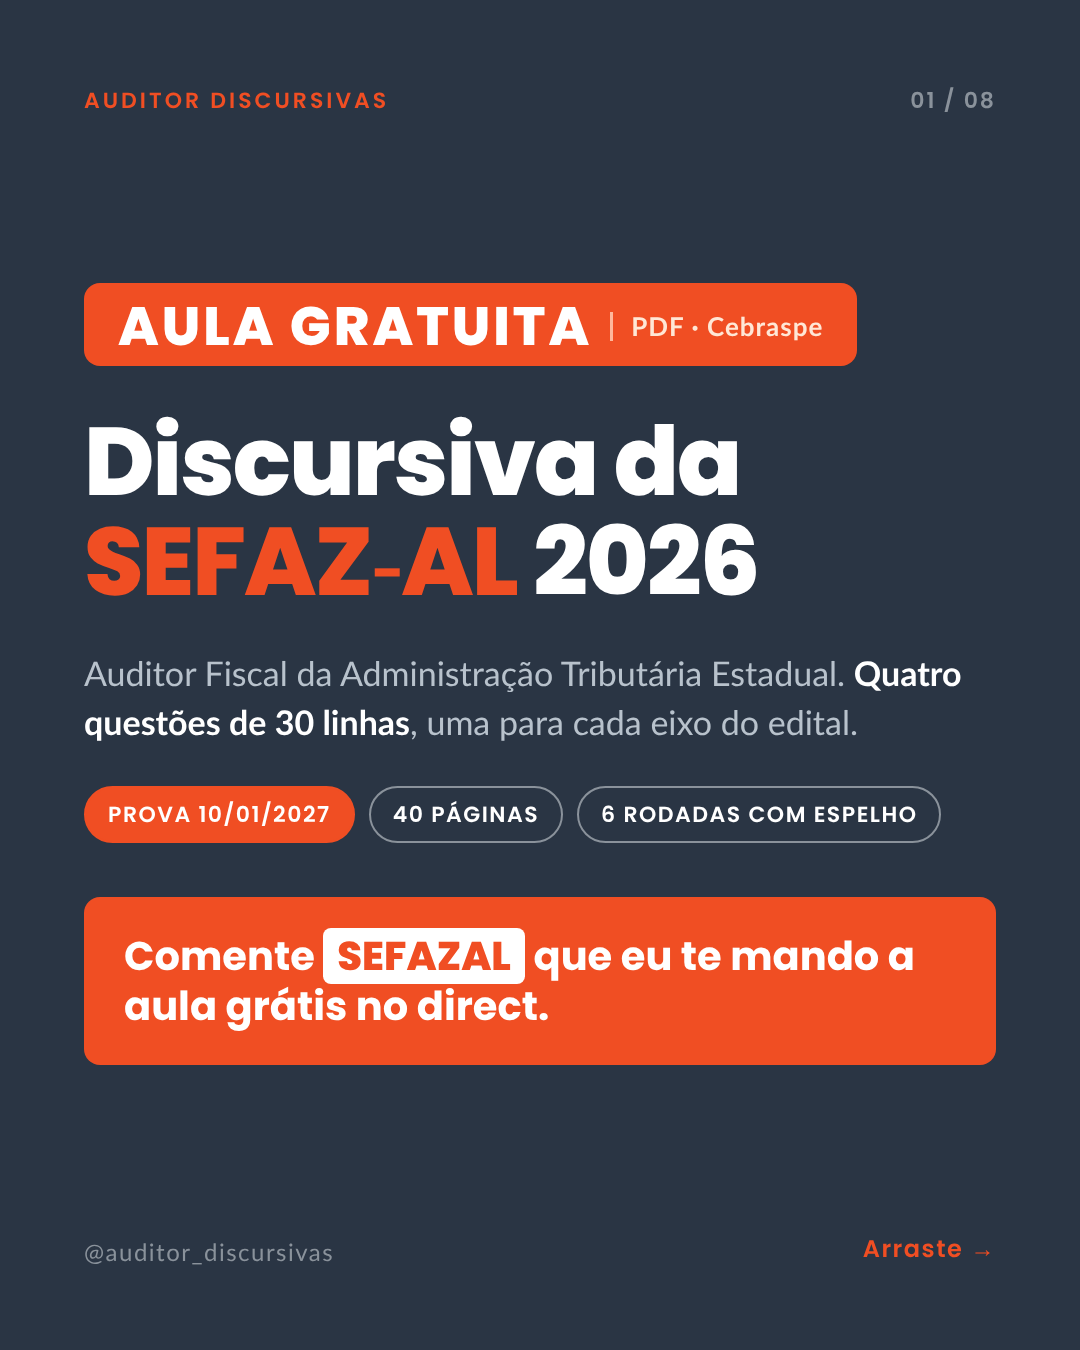
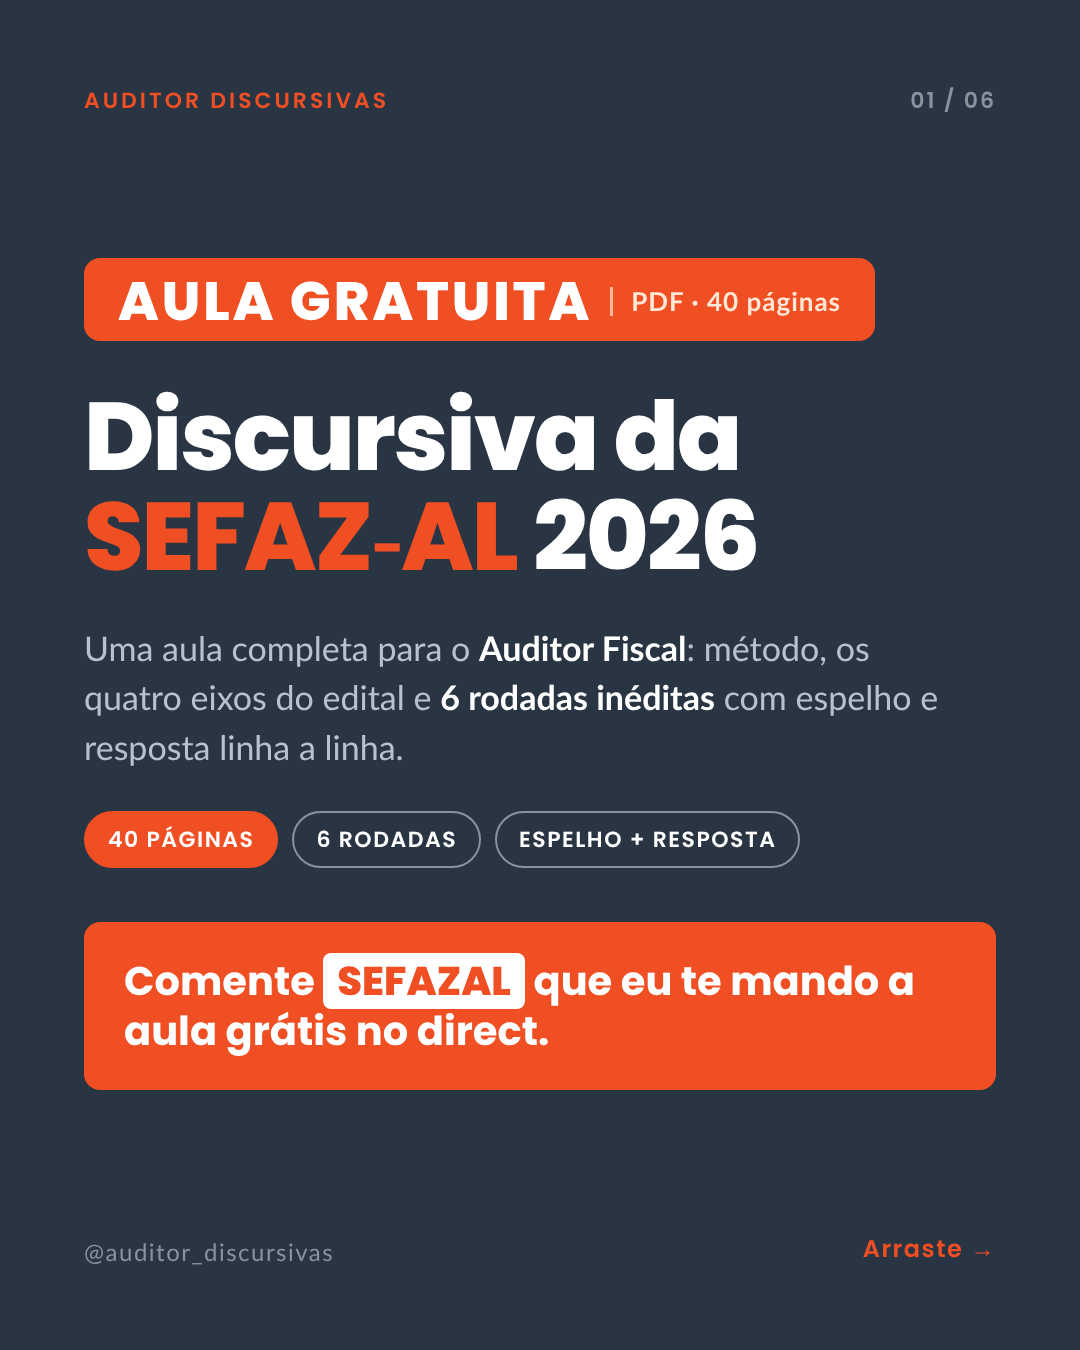
SEFAZ-AL: carrossel de 6 slides focado na aula
Claude-Session: https://claude.ai/code/session_01NnKHPQEUmMZq6kcsnTUKuD

Changed region(s): [[0.0611, 0.1867, 0.9472, 0.8089]]

diff --git a/fontes/campanha-sefazal/carrossel_sefazal.html b/fontes/campanha-sefazal/carrossel_sefazal.html
@@ -89,57 +89,59 @@ body{background:#E8EBEE;font-family:'Lato',sans-serif;padding:40px;display:flex;
 </head>
 <body>
 <div class="slide dark pad" data-n="01">
-  <div style="display:flex;justify-content:space-between"><div class="marca">Auditor Discursivas</div><div class="contador">01 / 08</div></div>
+  <div style="display:flex;justify-content:space-between"><div class="marca">Auditor Discursivas</div><div class="contador">01 / 06</div></div>
   <div>
-    <div class="tag" style="margin-bottom:46px">Aula gratuita<small>PDF · Cebraspe</small></div>
+    <div class="tag" style="margin-bottom:46px">Aula gratuita<small>PDF · 40 páginas</small></div>
     <div class="h1">Discursiva da <em style="white-space:nowrap">SEFAZ&#8209;AL</em> 2026</div>
-    <div class="sub" style="margin-top:36px">Auditor Fiscal da Administração Tributária Estadual. <b>Quatro questões de 30 linhas</b>, uma para cada eixo do edital.</div>
-    <div class="selo" style="margin-top:40px"><span class="on">Prova 10/01/2027</span><span class="">40 páginas</span><span class="">6 rodadas com espelho</span></div>
+    <div class="sub" style="margin-top:36px">Uma aula completa para o <b>Auditor Fiscal</b>: método, os quatro eixos do edital e <b>6 rodadas inéditas</b> com espelho e resposta linha a linha.</div>
+    <div class="selo" style="margin-top:40px"><span class="on">40 páginas</span><span class="">6 rodadas</span><span class="">Espelho + resposta</span></div>
     <div class="cta" style="margin-top:54px"><div class="a">Comente <b>SEFAZAL</b> que eu te mando a aula grátis no direct.</div></div>
   </div>
   <div class="rodape"><div>@auditor_discursivas</div><div class="seta">Arraste →</div></div>
 </div>
 <div class="slide" data-n="02">
-  <div class="faixa-navy"><span>A prova de domingo à tarde</span><span class="n">02 / 08</span></div>
-  <div class="faixa-laranja">Quatro textos, 40 pontos, uma linha de corte</div>
+  <div class="faixa-navy"><span>Na aula gratuita · 40 páginas</span><span class="n">02 / 06</span></div>
+  <div class="faixa-laranja">O que você recebe no PDF</div>
   <div class="corpo">
-<div class="nums">
-  <div class="num"><div class="v">4 × 30</div><div class="l">Quatro questões de até 30 linhas · <b>10 pontos</b> cada</div></div>
-  <div class="num"><div class="v">4h30</div><div class="l">Para as <b>120 linhas</b>, à mão</div></div>
-  <div class="num dest"><div class="v">20 <small>/ 40</small></div><div class="l">Abaixo disso, <b>eliminado</b></div></div>
-  <div class="num"><div class="v">~500</div><div class="l">Provas corrigidas para <b>40 vagas</b> imediatas</div></div>
+<div class="lista">
+  <div><span class="ok">✓</span><span class="q"><b>Raio-X do edital</b> e de como o Cebraspe corrige<small>Fórmula da nota, correção dupla, o que zera ou anula</small></span></div>
+  <div><span class="ok">✓</span><span class="q">O que o edital pede em <b>cada um dos quatro eixos</b><small>Os tópicos do edital que mais rendem uma questão de 30 linhas</small></span></div>
+  <div><span class="ok">✓</span><span class="q">O que a banca <b>já cobrou na área fiscal</b><small>SEFAZ-AL 2021, SEFAZ-SE 2021, SEFAZ-AC 2024</small></span></div>
+  <div><span class="ok">✓</span><span class="q"><b>O que está quente</b> para a SEFAZ-AL<small>Split payment, transição do ICMS, fiscalização por dados</small></span></div>
+  <div><span class="ok">✓</span><span class="q"><b>Roteiro de planejamento</b> em cinco passos<small>E a calibragem das 30 linhas por item</small></span></div>
+  <div><span class="ok">✓</span><span class="q">Gestão das <b>4h30</b> e checklist do dia da prova</span></div>
 </div>
-<div class="txt">Cada questão vale o mesmo que <b>dez itens líquidos</b> da objetiva. Três pontos numa resposta bem estruturada costumam vir mais fácil que três itens a mais.</div>
-<div class="dica"><div class="dica-rot">Fonte</div><div class="dica-txt">Edital n.º 1 – SEFAZ/AL, de 24/8/2026 (subitens 7.3, 8.11.6, 9.1, 9.7.6 e 11.1).</div></div>
 </div>
   <div class="rod-claro"><div>@auditor_discursivas</div><div class="seta">→</div></div>
 </div>
 <div class="slide" data-n="03">
-  <div class="faixa-navy"><span>Uma particularidade rara</span><span class="n">03 / 08</span></div>
-  <div class="faixa-laranja">O edital já diz o eixo de cada questão</div>
+  <div class="faixa-navy"><span>O coração da aula</span><span class="n">03 / 06</span></div>
+  <div class="faixa-laranja">Seis rodadas inéditas, um caso por eixo</div>
   <div class="corpo">
-<div class="rod"><span class="k">1</span><span class="t"><small>Questão 1</small><b>Ciência de dados</b> · CRISP-DM, aprendizado de máquina, métricas, BI</span></div>
-<div class="rod"><span class="k">2</span><span class="t"><small>Questão 2</small><b>Auditoria fiscal</b> · SPED, NF-e, EFD, cruzamentos, créditos indevidos</span></div>
-<div class="rod"><span class="k">3</span><span class="t"><small>Questão 3</small><b>Finanças públicas</b> · orçamento, LRF, renúncia de receita, dívida</span></div>
-<div class="rod"><span class="k">4</span><span class="t"><small>Questão 4</small><b>Reforma tributária</b> · IBS, CBS, Comitê Gestor, split payment, transição</span></div>
-<div class="dica"><div class="dica-rot">O recado</div><div class="dica-txt">Em vez de dezenas de disciplinas, você treina <b>quatro conteúdos</b>. Quem treinar com método chega com vantagem enorme.</div></div>
+<div class="rod"><span class="k">1</span><span class="t"><small>Ciência de dados</small><b>Seleção de contribuintes com aprendizado de máquina</b></span></div>
+<div class="rod"><span class="k">2</span><span class="t"><small>Ciência de dados</small><b>BI e modelagem dimensional da arrecadação</b></span></div>
+<div class="rod"><span class="k">3</span><span class="t"><small>Auditoria fiscal</small><b>Cruzamento NF-e × EFD ICMS/IPI</b></span></div>
+<div class="rod"><span class="k">4</span><span class="t"><small>Finanças públicas</small><b>Renúncia de receita e incentivo de ICMS</b></span></div>
+<div class="rod"><span class="k">5</span><span class="t"><small>Reforma tributária</small><b>Split payment, crédito e apuração assistida</b></span></div>
+<div class="rod"><span class="k">6</span><span class="t"><small>Reforma tributária</small><b>Princípio do destino, transição e Comitê Gestor</b></span></div>
+<div class="txt" style="font-size:28px;color:var(--cinza);margin-top:14px">Questões no padrão Cebraspe: 30 linhas, 10 pontos, itens com valor.</div>
 </div>
   <div class="rod-claro"><div>@auditor_discursivas</div><div class="seta">→</div></div>
 </div>
 <div class="slide" data-n="04">
-  <div class="faixa-navy"><span>Atenção ao calendário</span><span class="n">04 / 08</span></div>
-  <div class="faixa-laranja">Você vai fazer a discursiva sem saber se passou</div>
+  <div class="faixa-navy"><span>Como cada rodada funciona</span><span class="n">04 / 06</span></div>
+  <div class="faixa-laranja">Você escreve. Depois, a aula corrige.</div>
   <div class="corpo">
-<div class="rod"><span class="k p">1</span><span class="t"><small>20/12/2026</small><b>Prova objetiva</b></span></div>
-<div class="rod"><span class="k">2</span><span class="t"><small>10/01/2027 · tarde</small><b>Prova discursiva</b> · três semanas depois</span></div>
-<div class="rod"><span class="k p">3</span><span class="t"><small>05/02/2027</small><b>Resultado final da objetiva</b></span></div>
-<div class="dica"><div class="dica-rot">Na prática</div><div class="dica-txt">Não decida o seu esforço pelo gabarito preliminar. <b>Treine discursiva desde já</b>, em paralelo com a objetiva.</div></div>
-<div class="dica" style="margin-top:20px;border-top:none;padding-top:0"><div class="dica-rot">Fonte</div><div class="dica-txt">Edital n.º 1 – SEFAZ/AL e retificações.</div></div>
+<div class="bloco"><div class="lado"></div><div class="c"><div class="h">1 · Questão inédita</div><div class="d">Leia o enunciado e escreva em <b>60 minutos</b>, cronometrados</div></div></div>
+<div class="bloco"><div class="lado"></div><div class="c"><div class="h">2 · Orientação de solução</div><div class="d">O esqueleto: linhas por item, tópico frasal e dado do caso</div></div></div>
+<div class="bloco"><div class="lado"></div><div class="c"><div class="h">3 · Padrão de resposta e espelho</div><div class="d">O que o corretor procura, com <b>conceitos graduados</b> por quesito</div></div></div>
+<div class="bloco"><div class="lado"></div><div class="c"><div class="h">4 · Resposta definitiva</div><div class="d">O texto pronto, <b>linha a linha</b>, dentro das 30 linhas</div></div></div>
+<div class="bloco"><div class="lado"></div><div class="c"><div class="h">5 · Armadilhas e dicas</div><div class="d">Os erros mais comuns e o que o enunciado esconde</div></div></div>
 </div>
   <div class="rod-claro"><div>@auditor_discursivas</div><div class="seta">→</div></div>
 </div>
 <div class="slide" data-n="05">
-  <div class="faixa-navy"><span>Prévia da aula gratuita</span><span class="n">05 / 08</span></div>
+  <div class="faixa-navy"><span>Prévia da aula gratuita</span><span class="n">05 / 06</span></div>
   <div class="faixa-laranja">O parágrafo que pontua, em quatro partes</div>
   <div class="corpo">
 <div class="bloco"><div class="lado"></div><div class="c"><div class="h">1 · Tópico frasal</div><div class="d">“O crédito relativo ao material de uso e consumo é indevido.”</div></div></div>
@@ -150,38 +152,11 @@ body{background:#E8EBEE;font-family:'Lato',sans-serif;padding:40px;display:flex;
 </div>
   <div class="rod-claro"><div>@auditor_discursivas</div><div class="seta">→</div></div>
 </div>
-<div class="slide" data-n="06">
-  <div class="faixa-navy"><span>As seis rodadas</span><span class="n">06 / 08</span></div>
-  <div class="faixa-laranja">Temas inéditos, um caso por eixo</div>
-  <div class="corpo">
-<div class="rod"><span class="k">1</span><span class="t"><small>Ciência de dados</small><b>Seleção de contribuintes com aprendizado de máquina</b></span></div>
-<div class="rod"><span class="k">2</span><span class="t"><small>Ciência de dados</small><b>BI e modelagem dimensional da arrecadação</b></span></div>
-<div class="rod"><span class="k">3</span><span class="t"><small>Auditoria fiscal</small><b>Cruzamento NF-e × EFD ICMS/IPI</b></span></div>
-<div class="rod"><span class="k">4</span><span class="t"><small>Finanças públicas</small><b>Renúncia de receita e incentivo de ICMS</b></span></div>
-<div class="rod"><span class="k">5</span><span class="t"><small>Reforma tributária</small><b>Split payment, crédito e apuração assistida</b></span></div>
-<div class="rod"><span class="k">6</span><span class="t"><small>Reforma tributária</small><b>Princípio do destino, transição e Comitê Gestor</b></span></div>
-</div>
-  <div class="rod-claro"><div>@auditor_discursivas</div><div class="seta">→</div></div>
-</div>
-<div class="slide" data-n="07">
-  <div class="faixa-navy"><span>Na aula gratuita · 40 páginas</span><span class="n">07 / 08</span></div>
-  <div class="faixa-laranja">Do edital ao checklist do dia</div>
-  <div class="corpo">
-<div class="lista">
-  <div><span class="ok">✓</span><span class="q"><b>Raio-X do edital</b> e de como o Cebraspe corrige<small>Fórmula, correção dupla, o que zera ou anula</small></span></div>
-  <div><span class="ok">✓</span><span class="q">O que a banca <b>já cobrou na área fiscal</b><small>SEFAZ-AL 2021, SEFAZ-SE 2021, SEFAZ-AC 2024</small></span></div>
-  <div><span class="ok">✓</span><span class="q"><b>O que está quente</b> para a SEFAZ-AL<small>Split payment, transição do ICMS, Trânsito Inteligente</small></span></div>
-  <div><span class="ok">✓</span><span class="q"><b>6 rodadas</b> com espelho e resposta completa<small>Orientação de solução e proposta definitiva</small></span></div>
-  <div><span class="ok">✓</span><span class="q">Gestão das <b>quatro horas e meia</b> e checklist do dia</span></div>
-</div>
-</div>
-  <div class="rod-claro"><div>@auditor_discursivas</div><div class="seta">→</div></div>
-</div>
-<div class="slide dark pad" data-n="08">
-  <div style="display:flex;justify-content:space-between"><div class="marca">Auditor Discursivas</div><div class="contador">08 / 08</div></div>
+<div class="slide dark pad" data-n="06">
+  <div style="display:flex;justify-content:space-between"><div class="marca">Auditor Discursivas</div><div class="contador">06 / 06</div></div>
   <div>
     <div class="tag" style="margin-bottom:44px">Aula gratuita<small>em PDF, no seu direct</small></div>
-    <div class="h1" style="font-size:76px">Quatro eixos.<br>Um parágrafo por item.<br><em>Nota acima de 20.</em></div>
+    <div class="h1" style="font-size:76px">Seis rodadas.<br>Espelho e resposta.<br><em>Grátis no seu direct.</em></div>
     <div class="cta" style="margin-top:54px">
       <div class="a">Comente <b>SEFAZAL</b> aqui embaixo e a aula gratuita chega no seu direct.</div>
       <div class="b">Depois da prova, se a nota não vier como você esperava, me manda <b style="color:#fff">RECURSO</b> no direct. A análise de viabilidade é gratuita.</div>

diff --git a/fontes/campanha-sefazal/gerar.py b/fontes/campanha-sefazal/gerar.py
@@ -10,69 +10,52 @@ exec(src)  # define CSS, head, capa, conteudo, fecho, story
 
 OUT = pathlib.Path(sys.argv[1] if len(sys.argv) > 1 else 'out'); OUT.mkdir(parents=True, exist_ok=True)
 KW = 'SEFAZAL'
-T = 8
+T = 6
 
 c = head('Campanha SEFAZ-AL 2026 — carrossel') + capa(1, T,
-    'PDF · Cebraspe',
+    'PDF · 40 páginas',
     'Discursiva da <em style="white-space:nowrap">SEFAZ&#8209;AL</em> 2026',
-    'Auditor Fiscal da Administração Tributária Estadual. <b>Quatro questões de 30 linhas</b>, uma para cada eixo do edital.',
-    ['Prova 10/01/2027', '40 páginas', '6 rodadas com espelho'], KW)
+    'Uma aula completa para o <b>Auditor Fiscal</b>: método, os quatro eixos do edital e <b>6 rodadas inéditas</b> com espelho e resposta linha a linha.',
+    ['40 páginas', '6 rodadas', 'Espelho + resposta'], KW)
 
-c += conteudo(2, T, 'A prova de domingo à tarde', 'Quatro textos, 40 pontos, uma linha de corte', '''
-<div class="nums">
-  <div class="num"><div class="v">4 × 30</div><div class="l">Quatro questões de até 30 linhas · <b>10 pontos</b> cada</div></div>
-  <div class="num"><div class="v">4h30</div><div class="l">Para as <b>120 linhas</b>, à mão</div></div>
-  <div class="num dest"><div class="v">20 <small>/ 40</small></div><div class="l">Abaixo disso, <b>eliminado</b></div></div>
-  <div class="num"><div class="v">~500</div><div class="l">Provas corrigidas para <b>40 vagas</b> imediatas</div></div>
+c += conteudo(2, T, 'Na aula gratuita · 40 páginas', 'O que você recebe no PDF', """
+<div class="lista">
+  <div><span class="ok">✓</span><span class="q"><b>Raio-X do edital</b> e de como o Cebraspe corrige<small>Fórmula da nota, correção dupla, o que zera ou anula</small></span></div>
+  <div><span class="ok">✓</span><span class="q">O que o edital pede em <b>cada um dos quatro eixos</b><small>Os tópicos do edital que mais rendem uma questão de 30 linhas</small></span></div>
+  <div><span class="ok">✓</span><span class="q">O que a banca <b>já cobrou na área fiscal</b><small>SEFAZ-AL 2021, SEFAZ-SE 2021, SEFAZ-AC 2024</small></span></div>
+  <div><span class="ok">✓</span><span class="q"><b>O que está quente</b> para a SEFAZ-AL<small>Split payment, transição do ICMS, fiscalização por dados</small></span></div>
+  <div><span class="ok">✓</span><span class="q"><b>Roteiro de planejamento</b> em cinco passos<small>E a calibragem das 30 linhas por item</small></span></div>
+  <div><span class="ok">✓</span><span class="q">Gestão das <b>4h30</b> e checklist do dia da prova</span></div>
 </div>
-<div class="txt">Cada questão vale o mesmo que <b>dez itens líquidos</b> da objetiva. Três pontos numa resposta bem estruturada costumam vir mais fácil que três itens a mais.</div>
-<div class="dica"><div class="dica-rot">Fonte</div><div class="dica-txt">Edital n.º 1 – SEFAZ/AL, de 24/8/2026 (subitens 7.3, 8.11.6, 9.1, 9.7.6 e 11.1).</div></div>
-''')
+""")
 
-c += conteudo(3, T, 'Uma particularidade rara', 'O edital já diz o eixo de cada questão', '''
-<div class="rod"><span class="k">1</span><span class="t"><small>Questão 1</small><b>Ciência de dados</b> · CRISP-DM, aprendizado de máquina, métricas, BI</span></div>
-<div class="rod"><span class="k">2</span><span class="t"><small>Questão 2</small><b>Auditoria fiscal</b> · SPED, NF-e, EFD, cruzamentos, créditos indevidos</span></div>
-<div class="rod"><span class="k">3</span><span class="t"><small>Questão 3</small><b>Finanças públicas</b> · orçamento, LRF, renúncia de receita, dívida</span></div>
-<div class="rod"><span class="k">4</span><span class="t"><small>Questão 4</small><b>Reforma tributária</b> · IBS, CBS, Comitê Gestor, split payment, transição</span></div>
-<div class="dica"><div class="dica-rot">O recado</div><div class="dica-txt">Em vez de dezenas de disciplinas, você treina <b>quatro conteúdos</b>. Quem treinar com método chega com vantagem enorme.</div></div>
-''')
-
-c += conteudo(4, T, 'Atenção ao calendário', 'Você vai fazer a discursiva sem saber se passou', '''
-<div class="rod"><span class="k p">1</span><span class="t"><small>20/12/2026</small><b>Prova objetiva</b></span></div>
-<div class="rod"><span class="k">2</span><span class="t"><small>10/01/2027 · tarde</small><b>Prova discursiva</b> · três semanas depois</span></div>
-<div class="rod"><span class="k p">3</span><span class="t"><small>05/02/2027</small><b>Resultado final da objetiva</b></span></div>
-<div class="dica"><div class="dica-rot">Na prática</div><div class="dica-txt">Não decida o seu esforço pelo gabarito preliminar. <b>Treine discursiva desde já</b>, em paralelo com a objetiva.</div></div>
-<div class="dica" style="margin-top:20px;border-top:none;padding-top:0"><div class="dica-rot">Fonte</div><div class="dica-txt">Edital n.º 1 – SEFAZ/AL e retificações.</div></div>
-''')
-
-c += conteudo(5, T, 'Prévia da aula gratuita', 'O parágrafo que pontua, em quatro partes', '''
-<div class="bloco"><div class="lado"></div><div class="c"><div class="h">1 · Tópico frasal</div><div class="d">“O crédito relativo ao material de uso e consumo é indevido.”</div></div></div>
-<div class="bloco"><div class="lado"></div><div class="c"><div class="h">2 · Fundamento</div><div class="d">“...pois o art. 33, I, da LC n.º 87/1996 só admite esse crédito a partir de 2033.”</div></div></div>
-<div class="bloco"><div class="lado"></div><div class="c"><div class="h">3 · Aplicação ao caso</div><div class="d">“No caso, a empresa creditou R$ 45 mil de NF-e com CFOP 1.556.”</div></div></div>
-<div class="bloco"><div class="lado"></div><div class="c"><div class="h">4 · Fechamento</div><div class="d">“Assim, o valor deve ser estornado, com multa.”</div></div></div>
-<div class="dica" style="margin-top:14px"><div class="dica-rot">E em dados?</div><div class="dica-txt">O fundamento é o <b>conceito técnico</b>, com o nome técnico, aplicado à SEFAZ.</div></div>
-''')
-
-c += conteudo(6, T, 'As seis rodadas', 'Temas inéditos, um caso por eixo', '''
+c += conteudo(3, T, 'O coração da aula', 'Seis rodadas inéditas, um caso por eixo', """
 <div class="rod"><span class="k">1</span><span class="t"><small>Ciência de dados</small><b>Seleção de contribuintes com aprendizado de máquina</b></span></div>
 <div class="rod"><span class="k">2</span><span class="t"><small>Ciência de dados</small><b>BI e modelagem dimensional da arrecadação</b></span></div>
 <div class="rod"><span class="k">3</span><span class="t"><small>Auditoria fiscal</small><b>Cruzamento NF-e × EFD ICMS/IPI</b></span></div>
 <div class="rod"><span class="k">4</span><span class="t"><small>Finanças públicas</small><b>Renúncia de receita e incentivo de ICMS</b></span></div>
 <div class="rod"><span class="k">5</span><span class="t"><small>Reforma tributária</small><b>Split payment, crédito e apuração assistida</b></span></div>
 <div class="rod"><span class="k">6</span><span class="t"><small>Reforma tributária</small><b>Princípio do destino, transição e Comitê Gestor</b></span></div>
-''')
+<div class="txt" style="font-size:28px;color:var(--cinza);margin-top:14px">Questões no padrão Cebraspe: 30 linhas, 10 pontos, itens com valor.</div>
+""")
 
-c += conteudo(7, T, 'Na aula gratuita · 40 páginas', 'Do edital ao checklist do dia', '''
-<div class="lista">
-  <div><span class="ok">✓</span><span class="q"><b>Raio-X do edital</b> e de como o Cebraspe corrige<small>Fórmula, correção dupla, o que zera ou anula</small></span></div>
-  <div><span class="ok">✓</span><span class="q">O que a banca <b>já cobrou na área fiscal</b><small>SEFAZ-AL 2021, SEFAZ-SE 2021, SEFAZ-AC 2024</small></span></div>
-  <div><span class="ok">✓</span><span class="q"><b>O que está quente</b> para a SEFAZ-AL<small>Split payment, transição do ICMS, Trânsito Inteligente</small></span></div>
-  <div><span class="ok">✓</span><span class="q"><b>6 rodadas</b> com espelho e resposta completa<small>Orientação de solução e proposta definitiva</small></span></div>
-  <div><span class="ok">✓</span><span class="q">Gestão das <b>quatro horas e meia</b> e checklist do dia</span></div>
-</div>
-''')
+c += conteudo(4, T, 'Como cada rodada funciona', 'Você escreve. Depois, a aula corrige.', """
+<div class="bloco"><div class="lado"></div><div class="c"><div class="h">1 · Questão inédita</div><div class="d">Leia o enunciado e escreva em <b>60 minutos</b>, cronometrados</div></div></div>
+<div class="bloco"><div class="lado"></div><div class="c"><div class="h">2 · Orientação de solução</div><div class="d">O esqueleto: linhas por item, tópico frasal e dado do caso</div></div></div>
+<div class="bloco"><div class="lado"></div><div class="c"><div class="h">3 · Padrão de resposta e espelho</div><div class="d">O que o corretor procura, com <b>conceitos graduados</b> por quesito</div></div></div>
+<div class="bloco"><div class="lado"></div><div class="c"><div class="h">4 · Resposta definitiva</div><div class="d">O texto pronto, <b>linha a linha</b>, dentro das 30 linhas</div></div></div>
+<div class="bloco"><div class="lado"></div><div class="c"><div class="h">5 · Armadilhas e dicas</div><div class="d">Os erros mais comuns e o que o enunciado esconde</div></div></div>
+""")
 
-c += fecho(8, T, 'Quatro eixos.<br>Um parágrafo por item.<br><em>Nota acima de 20.</em>', KW,
+c += conteudo(5, T, 'Prévia da aula gratuita', 'O parágrafo que pontua, em quatro partes', """
+<div class="bloco"><div class="lado"></div><div class="c"><div class="h">1 · Tópico frasal</div><div class="d">“O crédito relativo ao material de uso e consumo é indevido.”</div></div></div>
+<div class="bloco"><div class="lado"></div><div class="c"><div class="h">2 · Fundamento</div><div class="d">“...pois o art. 33, I, da LC n.º 87/1996 só admite esse crédito a partir de 2033.”</div></div></div>
+<div class="bloco"><div class="lado"></div><div class="c"><div class="h">3 · Aplicação ao caso</div><div class="d">“No caso, a empresa creditou R$ 45 mil de NF-e com CFOP 1.556.”</div></div></div>
+<div class="bloco"><div class="lado"></div><div class="c"><div class="h">4 · Fechamento</div><div class="d">“Assim, o valor deve ser estornado, com multa.”</div></div></div>
+<div class="dica" style="margin-top:14px"><div class="dica-rot">E em dados?</div><div class="dica-txt">O fundamento é o <b>conceito técnico</b>, com o nome técnico, aplicado à SEFAZ.</div></div>
+""")
+
+c += fecho(6, T, 'Seis rodadas.<br>Espelho e resposta.<br><em>Grátis no seu direct.</em>', KW,
     'Depois da prova, se a nota não vier como você esperava, me manda <b style="color:#fff">RECURSO</b> no direct. A análise de viabilidade é gratuita.')
 c += '</body>\n</html>\n'
 (OUT / 'carrossel_sefazal.html').write_text(c, encoding='utf-8')
